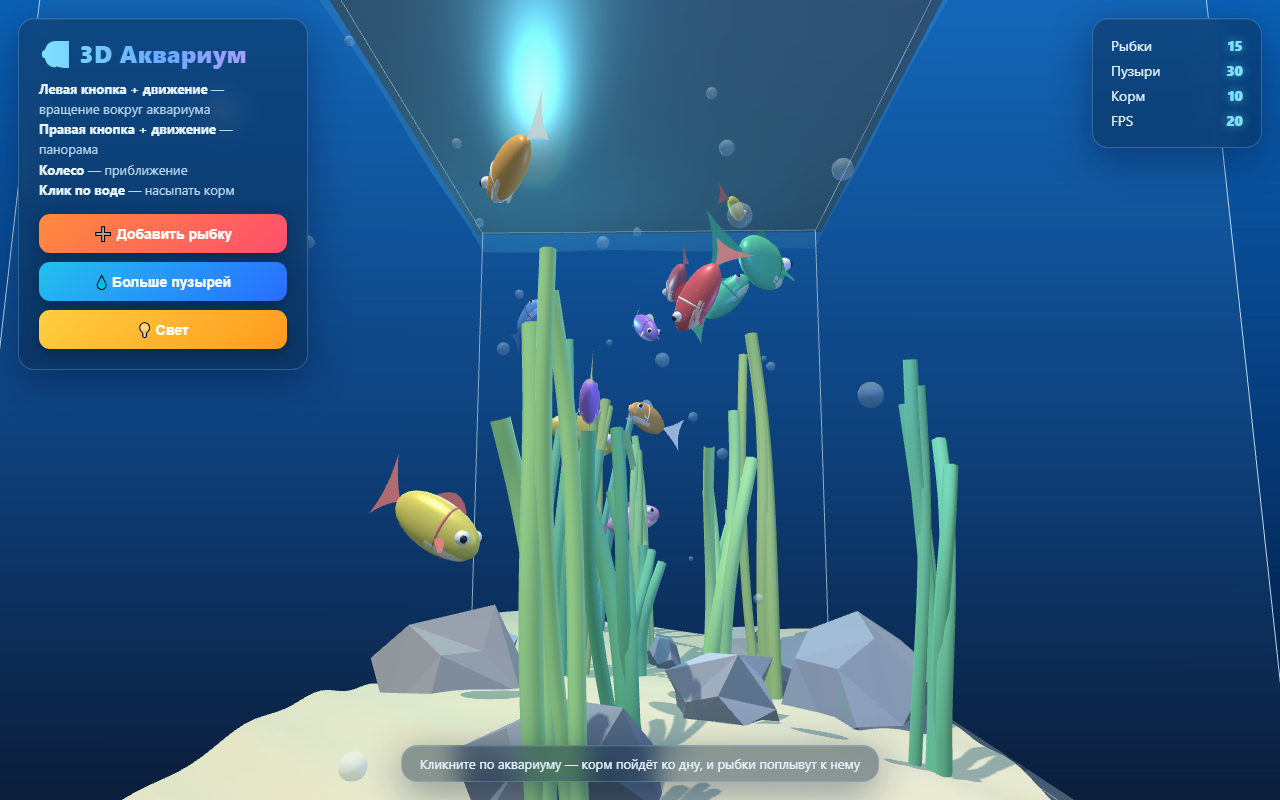
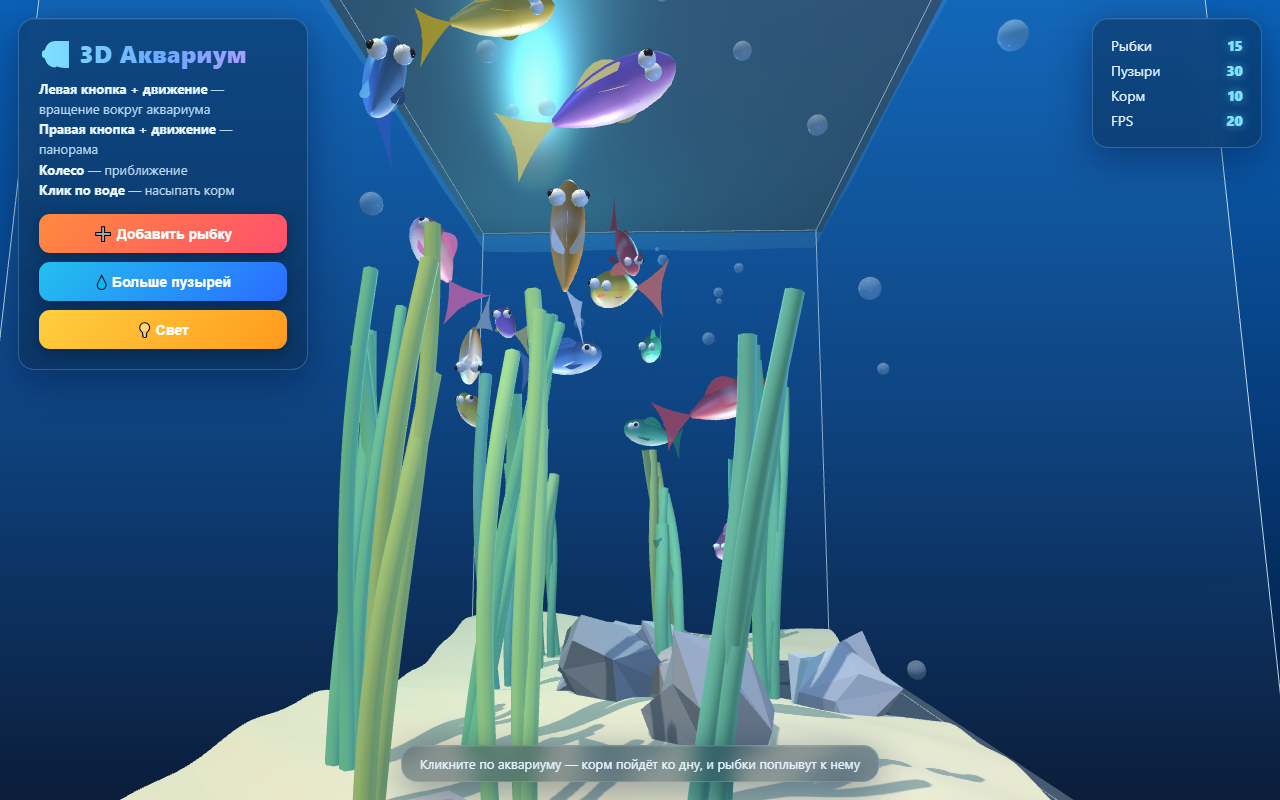
Свежие прогоны эталонов
Опубликовано сторожем: в галерее 73 групп, 2401 файлов.

diff --git a/docs/hamsters/aquarium.html b/docs/hamsters/aquarium.html
@@ -272,7 +272,7 @@ Call log:
 <tr class="run bad" data-mode="medium" data-ok="0"><td class="shot-cell"><a class="shot" href="%D0%90%D0%BA%D0%B2%D0%B0%D1%80%D0%B8%D1%83%D0%BC%20%C2%B7%20Qwen3.6%204%20%D0%B1%D0%B8%D1%82%D0%B0%20AWQ/medium-%D0%BF%D1%80%D0%BE%D0%B3%D0%BE%D0%BD1.html" target="_blank"><img src="%D0%90%D0%BA%D0%B2%D0%B0%D1%80%D0%B8%D1%83%D0%BC%20%C2%B7%20Qwen3.6%204%20%D0%B1%D0%B8%D1%82%D0%B0%20AWQ/medium-%D0%BF%D1%80%D0%BE%D0%B3%D0%BE%D0%BD1.png" loading="lazy" alt="снимок сцены"></a></td><td class="run-cell" data-h="прогон"><a class="play" href="%D0%90%D0%BA%D0%B2%D0%B0%D1%80%D0%B8%D1%83%D0%BC%20%C2%B7%20Qwen3.6%204%20%D0%B1%D0%B8%D1%82%D0%B0%20AWQ/medium-%D0%BF%D1%80%D0%BE%D0%B3%D0%BE%D0%BD1.html" target="_blank">▶ смотреть</a><b class="rlab">medium, прогон 1</b><span class="rmode">medium</span><span class="cdn">cdn.jsdelivr.net, cdnjs.cloudflare.com</span><div class="crash">страница падает<br><i>Cannot access &#x27;bubbleArray&#x27; before initialization</i></div></td><td class="chk" data-h="проверки"><b>23/25</b><span class="thr">порог 15</span><span class="miss">не хватило: 8 цветовых схем, рост после еды</span></td><td class="speed" data-h="скорость"><b>97,5&#8201;т/с</b><span>9 947 токенов<br>102 с</span></td><td class="fin" data-h="финиш">stop<span>размышление 1 036&#8201;симв</span></td><td class="lnk" data-h="файлы"><a href="%D0%90%D0%BA%D0%B2%D0%B0%D1%80%D0%B8%D1%83%D0%BC%20%C2%B7%20Qwen3.6%204%20%D0%B1%D0%B8%D1%82%D0%B0%20AWQ/medium-%D0%BF%D1%80%D0%BE%D0%B3%D0%BE%D0%BD1.html" target="_blank">исходник</a><a href="%D0%90%D0%BA%D0%B2%D0%B0%D1%80%D0%B8%D1%83%D0%BC%20%C2%B7%20Qwen3.6%204%20%D0%B1%D0%B8%D1%82%D0%B0%20AWQ/medium-%D0%BF%D1%80%D0%BE%D0%B3%D0%BE%D0%BD1-%D1%80%D0%B0%D0%B7%D0%BC%D1%8B%D1%88%D0%BB%D0%B5%D0%BD%D0%B8%D0%B5.txt" target="_blank">размышление</a><a href="%D0%90%D0%BA%D0%B2%D0%B0%D1%80%D0%B8%D1%83%D0%BC%20%C2%B7%20Qwen3.6%204%20%D0%B1%D0%B8%D1%82%D0%B0%20AWQ/medium-%D0%BF%D1%80%D0%BE%D0%B3%D0%BE%D0%BD1-%D0%BE%D1%82%D0%B2%D0%B5%D1%82-%D1%86%D0%B5%D0%BB%D0%B8%D0%BA%D0%BE%D0%BC.md" target="_blank">ответ целиком</a></td></tr>
 <tr class="run ok" data-mode="medium" data-ok="1"><td class="shot-cell"><a class="shot" href="%D0%90%D0%BA%D0%B2%D0%B0%D1%80%D0%B8%D1%83%D0%BC%20%C2%B7%20Qwen3.6%204%20%D0%B1%D0%B8%D1%82%D0%B0%20AWQ/medium-%D0%BF%D1%80%D0%BE%D0%B3%D0%BE%D0%BD2.html" target="_blank"><img src="%D0%90%D0%BA%D0%B2%D0%B0%D1%80%D0%B8%D1%83%D0%BC%20%C2%B7%20Qwen3.6%204%20%D0%B1%D0%B8%D1%82%D0%B0%20AWQ/medium-%D0%BF%D1%80%D0%BE%D0%B3%D0%BE%D0%BD2.png" loading="lazy" alt="снимок сцены"></a></td><td class="run-cell" data-h="прогон"><a class="play" href="%D0%90%D0%BA%D0%B2%D0%B0%D1%80%D0%B8%D1%83%D0%BC%20%C2%B7%20Qwen3.6%204%20%D0%B1%D0%B8%D1%82%D0%B0%20AWQ/medium-%D0%BF%D1%80%D0%BE%D0%B3%D0%BE%D0%BD2.html" target="_blank">▶ смотреть</a><b class="rlab">medium, прогон 2</b><span class="rmode">medium</span><span class="cdn">cdn.jsdelivr.net, cdnjs.cloudflare.com</span></td><td class="chk" data-h="проверки"><b>24/25</b><span class="thr">порог 15</span><span class="miss">не хватило: 8 цветовых схем</span></td><td class="speed" data-h="скорость"><b>97,7&#8201;т/с</b><span>9 703 токенов<br>99 с</span></td><td class="fin" data-h="финиш">stop<span>размышление 700&#8201;симв</span></td><td class="lnk" data-h="файлы"><a href="%D0%90%D0%BA%D0%B2%D0%B0%D1%80%D0%B8%D1%83%D0%BC%20%C2%B7%20Qwen3.6%204%20%D0%B1%D0%B8%D1%82%D0%B0%20AWQ/medium-%D0%BF%D1%80%D0%BE%D0%B3%D0%BE%D0%BD2.html" target="_blank">исходник</a><a href="%D0%90%D0%BA%D0%B2%D0%B0%D1%80%D0%B8%D1%83%D0%BC%20%C2%B7%20Qwen3.6%204%20%D0%B1%D0%B8%D1%82%D0%B0%20AWQ/medium-%D0%BF%D1%80%D0%BE%D0%B3%D0%BE%D0%BD2-%D1%80%D0%B0%D0%B7%D0%BC%D1%8B%D1%88%D0%BB%D0%B5%D0%BD%D0%B8%D0%B5.txt" target="_blank">размышление</a><a href="%D0%90%D0%BA%D0%B2%D0%B0%D1%80%D0%B8%D1%83%D0%BC%20%C2%B7%20Qwen3.6%204%20%D0%B1%D0%B8%D1%82%D0%B0%20AWQ/medium-%D0%BF%D1%80%D0%BE%D0%B3%D0%BE%D0%BD2-%D0%BE%D1%82%D0%B2%D0%B5%D1%82-%D1%86%D0%B5%D0%BB%D0%B8%D0%BA%D0%BE%D0%BC.md" target="_blank">ответ целиком</a></td></tr>
 <tr class="run ok" data-mode="xhigh" data-ok="1"><td class="shot-cell"><a class="shot" href="%D0%90%D0%BA%D0%B2%D0%B0%D1%80%D0%B8%D1%83%D0%BC%20%C2%B7%20Qwen3.6%204%20%D0%B1%D0%B8%D1%82%D0%B0%20AWQ/xhigh-%D0%BF%D1%80%D0%BE%D0%B3%D0%BE%D0%BD1.html" target="_blank"><img src="%D0%90%D0%BA%D0%B2%D0%B0%D1%80%D0%B8%D1%83%D0%BC%20%C2%B7%20Qwen3.6%204%20%D0%B1%D0%B8%D1%82%D0%B0%20AWQ/xhigh-%D0%BF%D1%80%D0%BE%D0%B3%D0%BE%D0%BD1.png" loading="lazy" alt="снимок сцены"></a></td><td class="run-cell" data-h="прогон"><a class="play" href="%D0%90%D0%BA%D0%B2%D0%B0%D1%80%D0%B8%D1%83%D0%BC%20%C2%B7%20Qwen3.6%204%20%D0%B1%D0%B8%D1%82%D0%B0%20AWQ/xhigh-%D0%BF%D1%80%D0%BE%D0%B3%D0%BE%D0%BD1.html" target="_blank">▶ смотреть</a><b class="rlab">xhigh, прогон 1</b><span class="rmode">xhigh</span><span class="cdn">cdn.jsdelivr.net, cdnjs.cloudflare.com</span></td><td class="chk" data-h="проверки"><b>24/25</b><span class="thr">порог 15</span><span class="miss">не хватило: 8 цветовых схем</span></td><td class="speed" data-h="скорость"><b>97,5&#8201;т/с</b><span>10 778 токенов<br>111 с</span></td><td class="fin" data-h="финиш">stop<span>размышление 1 047&#8201;симв</span></td><td class="lnk" data-h="файлы"><a href="%D0%90%D0%BA%D0%B2%D0%B0%D1%80%D0%B8%D1%83%D0%BC%20%C2%B7%20Qwen3.6%204%20%D0%B1%D0%B8%D1%82%D0%B0%20AWQ/xhigh-%D0%BF%D1%80%D0%BE%D0%B3%D0%BE%D0%BD1.html" target="_blank">исходник</a><a href="%D0%90%D0%BA%D0%B2%D0%B0%D1%80%D0%B8%D1%83%D0%BC%20%C2%B7%20Qwen3.6%204%20%D0%B1%D0%B8%D1%82%D0%B0%20AWQ/xhigh-%D0%BF%D1%80%D0%BE%D0%B3%D0%BE%D0%BD1-%D1%80%D0%B0%D0%B7%D0%BC%D1%8B%D1%88%D0%BB%D0%B5%D0%BD%D0%B8%D0%B5.txt" target="_blank">размышление</a><a href="%D0%90%D0%BA%D0%B2%D0%B0%D1%80%D0%B8%D1%83%D0%BC%20%C2%B7%20Qwen3.6%204%20%D0%B1%D0%B8%D1%82%D0%B0%20AWQ/xhigh-%D0%BF%D1%80%D0%BE%D0%B3%D0%BE%D0%BD1-%D0%BE%D1%82%D0%B2%D0%B5%D1%82-%D1%86%D0%B5%D0%BB%D0%B8%D0%BA%D0%BE%D0%BC.md" target="_blank">ответ целиком</a></td></tr></tbody></table></div></section>
-<section class="mdl" data-fam="claude (эталон)" data-bits="" data-way="" data-name="эталон claude claude opus 5.5 (эталон, написано напрямую) без кванта, эталон" data-share="1.0000" data-tps="0.00" data-ord="17"><header class="mh"><div class="mh-l"><h2>Эталон Claude</h2><span class="ckpt">Claude Opus 5.5 (эталон, написано напрямую)</span><span class="det">без кванта, эталон · верхняя планка для сравнения: тот же промпт, те же проверки</span></div><div class="mh-r"><div class="bar"><i style="width:100%"></i></div><div class="cnt">прогонов <b class="vis">1</b> из 1 · засчитано <b>1</b></div></div></header><div class="scroll"><table><thead><tr><th>вид</th><th>прогон</th><th>проверки</th><th>скорость</th><th>финиш</th><th>файлы</th></tr></thead><tbody><tr class="run ok" data-mode="эталон" data-ok="1"><td class="shot-cell"><a class="shot" href="%D0%90%D0%BA%D0%B2%D0%B0%D1%80%D0%B8%D1%83%D0%BC%20%C2%B7%20%D0%AD%D1%82%D0%B0%D0%BB%D0%BE%D0%BD%20Claude/etalon-%D0%BF%D1%80%D0%BE%D0%B3%D0%BE%D0%BD1.html" target="_blank"><img src="%D0%90%D0%BA%D0%B2%D0%B0%D1%80%D0%B8%D1%83%D0%BC%20%C2%B7%20%D0%AD%D1%82%D0%B0%D0%BB%D0%BE%D0%BD%20Claude/etalon-%D0%BF%D1%80%D0%BE%D0%B3%D0%BE%D0%BD1.png" loading="lazy" alt="снимок сцены"></a></td><td class="run-cell" data-h="прогон"><a class="play" href="%D0%90%D0%BA%D0%B2%D0%B0%D1%80%D0%B8%D1%83%D0%BC%20%C2%B7%20%D0%AD%D1%82%D0%B0%D0%BB%D0%BE%D0%BD%20Claude/etalon-%D0%BF%D1%80%D0%BE%D0%B3%D0%BE%D0%BD1.html" target="_blank">▶ смотреть</a><b class="rlab">эталон</b><span class="rmode">эталон</span><span class="cdn">cdn.jsdelivr.net, cdnjs.cloudflare.com</span></td><td class="chk" data-h="проверки"><b>25/25</b><span class="thr">порог 15</span></td><td class="speed" data-h="скорость"><b>0,0&#8201;т/с</b><span>0 токенов<br>0 с</span></td><td class="fin" data-h="финиш">stop</td><td class="lnk" data-h="файлы"><a href="%D0%90%D0%BA%D0%B2%D0%B0%D1%80%D0%B8%D1%83%D0%BC%20%C2%B7%20%D0%AD%D1%82%D0%B0%D0%BB%D0%BE%D0%BD%20Claude/etalon-%D0%BF%D1%80%D0%BE%D0%B3%D0%BE%D0%BD1.html" target="_blank">исходник</a><a href="%D0%90%D0%BA%D0%B2%D0%B0%D1%80%D0%B8%D1%83%D0%BC%20%C2%B7%20%D0%AD%D1%82%D0%B0%D0%BB%D0%BE%D0%BD%20Claude/etalon-%D0%BF%D1%80%D0%BE%D0%B3%D0%BE%D0%BD1-%D0%BE%D1%82%D0%B2%D0%B5%D1%82-%D1%86%D0%B5%D0%BB%D0%B8%D0%BA%D0%BE%D0%BC.md" target="_blank">ответ целиком</a></td></tr></tbody></table></div></section></div>
+<section class="mdl" data-fam="claude (эталон)" data-bits="" data-way="" data-name="эталон claude claude opus 5.5 (эталон, написано напрямую) без кванта, эталон" data-share="1.0000" data-tps="0.00" data-ord="17"><header class="mh"><div class="mh-l"><h2>Эталон Claude</h2><span class="ckpt">Claude Opus 5.5 (эталон, написано напрямую)</span><span class="det">без кванта, эталон · верхняя планка для сравнения: тот же промпт, те же проверки; 27.09 вечером исправлено: рыбы плыли хвостом вперёд, тело переделано</span></div><div class="mh-r"><div class="bar"><i style="width:100%"></i></div><div class="cnt">прогонов <b class="vis">1</b> из 1 · засчитано <b>1</b></div></div></header><div class="scroll"><table><thead><tr><th>вид</th><th>прогон</th><th>проверки</th><th>скорость</th><th>финиш</th><th>файлы</th></tr></thead><tbody><tr class="run ok" data-mode="эталон" data-ok="1"><td class="shot-cell"><a class="shot" href="%D0%90%D0%BA%D0%B2%D0%B0%D1%80%D0%B8%D1%83%D0%BC%20%C2%B7%20%D0%AD%D1%82%D0%B0%D0%BB%D0%BE%D0%BD%20Claude/etalon-%D0%BF%D1%80%D0%BE%D0%B3%D0%BE%D0%BD1.html" target="_blank"><img src="%D0%90%D0%BA%D0%B2%D0%B0%D1%80%D0%B8%D1%83%D0%BC%20%C2%B7%20%D0%AD%D1%82%D0%B0%D0%BB%D0%BE%D0%BD%20Claude/etalon-%D0%BF%D1%80%D0%BE%D0%B3%D0%BE%D0%BD1.png" loading="lazy" alt="снимок сцены"></a></td><td class="run-cell" data-h="прогон"><a class="play" href="%D0%90%D0%BA%D0%B2%D0%B0%D1%80%D0%B8%D1%83%D0%BC%20%C2%B7%20%D0%AD%D1%82%D0%B0%D0%BB%D0%BE%D0%BD%20Claude/etalon-%D0%BF%D1%80%D0%BE%D0%B3%D0%BE%D0%BD1.html" target="_blank">▶ смотреть</a><b class="rlab">эталон</b><span class="rmode">эталон</span><span class="cdn">cdn.jsdelivr.net, cdnjs.cloudflare.com</span></td><td class="chk" data-h="проверки"><b>25/25</b><span class="thr">порог 15</span></td><td class="speed" data-h="скорость"><b>0,0&#8201;т/с</b><span>0 токенов<br>0 с</span></td><td class="fin" data-h="финиш">stop</td><td class="lnk" data-h="файлы"><a href="%D0%90%D0%BA%D0%B2%D0%B0%D1%80%D0%B8%D1%83%D0%BC%20%C2%B7%20%D0%AD%D1%82%D0%B0%D0%BB%D0%BE%D0%BD%20Claude/etalon-%D0%BF%D1%80%D0%BE%D0%B3%D0%BE%D0%BD1.html" target="_blank">исходник</a><a href="%D0%90%D0%BA%D0%B2%D0%B0%D1%80%D0%B8%D1%83%D0%BC%20%C2%B7%20%D0%AD%D1%82%D0%B0%D0%BB%D0%BE%D0%BD%20Claude/etalon-%D0%BF%D1%80%D0%BE%D0%B3%D0%BE%D0%BD1-%D0%BE%D1%82%D0%B2%D0%B5%D1%82-%D1%86%D0%B5%D0%BB%D0%B8%D0%BA%D0%BE%D0%BC.md" target="_blank">ответ целиком</a></td></tr></tbody></table></div></section></div>
 <footer>Зелёная строка — прогон засчитан, красная — нет. Полоса в шапке блока показывает долю засчитанных у этой модели. Под каждым прогоном написано, с какого хоста он тянет three.js: если этот хост у вас недоступен, сцена покажет ожидание CDN вместо картинки.</footer>
 </div><script>
 (function () {

diff --git a/docs/hamsters/Аквариум · Эталон Claude/etalon-прогон1.html b/docs/hamsters/Аквариум · Эталон Claude/etalon-прогон1.html
@@ -314,7 +314,33 @@ for (let i = 0; i < BUBBLE_COUNT; i++) spawnBubble(true);
 
 // ─────────────────────────── рыбки ───────────────────────────
 const fishArray = [];
-const bodyGeo = new THREE.SphereGeometry(1, 16, 12);
+// Тело — поверхность вращения по профилю рыбы: круглая голова, самая толстая часть в передней трети, сужение к
+// хвостовому стеблю. Ось вращения повёрнута на +X (голова), с боков тело сжато. Брюхо, спина и полоса — цвета вершин
+// этого же тела, а не отдельные сферы, торчащие из него.
+const FISH_PROFILE = [[0, 1.55], [0.22, 1.47], [0.42, 1.28], [0.58, 0.95], [0.66, 0.55], [0.67, 0.15], [0.62, -0.25],
+                      [0.5, -0.65], [0.34, -1.0], [0.2, -1.25], [0.12, -1.42], [0, -1.46]];
+const bodyGeoCache = new Map();
+function fishBodyGeo(scheme) {
+  if (bodyGeoCache.has(scheme)) return bodyGeoCache.get(scheme);
+  const g = new THREE.LatheGeometry(FISH_PROFILE.map(([r, y]) => new THREE.Vector2(r, y)), 28);
+  g.rotateZ(-Math.PI / 2);                        // ось вращения +Y → +X: голова смотрит вдоль +X
+  g.scale(1, 1, 0.6);                             // рыбы сжаты с боков
+  const pos = g.attributes.position, col = [];
+  const cBody = new THREE.Color(scheme.body), cBelly = new THREE.Color(scheme.belly), cStripe = new THREE.Color(scheme.stripe);
+  const cBack = cBody.clone().multiplyScalar(0.72), c = new THREE.Color();
+  const smooth = (a, b, x) => { const t = THREE.MathUtils.clamp((x - a) / (b - a), 0, 1); return t * t * (3 - 2 * t); };
+  for (let i = 0; i < pos.count; i++) {
+    const x = pos.getX(i), y = pos.getY(i);
+    c.copy(cBody).lerp(cBack, smooth(0.15, 0.6, y)).lerp(cBelly, smooth(-0.05, -0.5, y));
+    const band = smooth(0.12, 0.2, x) * (1 - smooth(0.4, 0.48, x));   // мягкая поперечная полоса
+    c.lerp(cStripe, band * 0.9);
+    col.push(c.r, c.g, c.b);
+  }
+  g.setAttribute('color', new THREE.Float32BufferAttribute(col, 3));
+  g.computeVertexNormals();
+  bodyGeoCache.set(scheme, g);
+  return g;
+}
 const eyeGeo = new THREE.SphereGeometry(0.2, 10, 8);
 const pupilGeo = new THREE.SphereGeometry(0.11, 8, 6);
 const eyeMat = new THREE.MeshStandardMaterial({ color: 0xffffff, roughness: 0.2 });
@@ -343,30 +369,19 @@ const sideFinGeo = finShape(0.75, 0.42);
 
 function createFish(position) {
   const scheme = COLOR_SCHEMES[fishArray.length % COLOR_SCHEMES.length];
-  const bodyMat = new THREE.MeshStandardMaterial({ color: scheme.body, roughness: 0.35, metalness: 0.15 });
+  const bodyMat = new THREE.MeshStandardMaterial({ vertexColors: true, roughness: 0.38, metalness: 0.12 });
   const finMat = new THREE.MeshStandardMaterial({ color: scheme.fin, roughness: 0.5, side: THREE.DoubleSide, transparent: true, opacity: 0.88 });
 
   const mesh = new THREE.Group();                 // рыбка смотрит вдоль +X
-  const body = new THREE.Mesh(bodyGeo, bodyMat);
-  body.scale.set(1.45, 0.72, 0.46);               // вытянутое тело — масштабированная сфера
+  const body = new THREE.Mesh(fishBodyGeo(scheme), bodyMat);
   body.castShadow = true;
   mesh.add(body);
 
-  const belly = new THREE.Mesh(bodyGeo, new THREE.MeshStandardMaterial({ color: scheme.belly, roughness: 0.5 }));
-  belly.scale.set(1.18, 0.42, 0.4);
-  belly.position.set(0.1, -0.26, 0);
-  mesh.add(belly);
-
-  const stripe = new THREE.Mesh(bodyGeo, new THREE.MeshStandardMaterial({ color: scheme.stripe, roughness: 0.4 }));
-  stripe.scale.set(0.12, 0.7, 0.47);             // поперечная полоса
-  stripe.position.set(0.35, 0.02, 0);
-  mesh.add(stripe);
-
-  for (const side of [1, -1]) {                   // глаза со зрачками
+  for (const side of [1, -1]) {                   // глаза со зрачками, сидят на поверхности головы
     const eye = new THREE.Mesh(eyeGeo, eyeMat);
-    eye.position.set(1.02, 0.18, 0.31 * side);
+    eye.position.set(1.02, 0.2, 0.26 * side);
     const pupil = new THREE.Mesh(pupilGeo, pupilMat);
-    pupil.position.set(0.1, 0.02, 0.1 * side);
+    pupil.position.set(0.07, 0.02, 0.12 * side);
     eye.add(pupil);
     mesh.add(eye);
   }
@@ -374,7 +389,7 @@ function createFish(position) {
   // хвост: шарнир развёрнут на 90° по X, поэтому вращение хвоста по его оси Z
   // даёт взмах из стороны в сторону, как у настоящей рыбы
   const tailPivot = new THREE.Group();
-  tailPivot.position.set(-1.35, 0, 0);
+  tailPivot.position.set(-1.38, 0, 0);
   tailPivot.rotation.x = Math.PI / 2;
   const tail = new THREE.Mesh(tailGeo, finMat);
   tail.rotation.x = -Math.PI / 2;
@@ -383,17 +398,22 @@ function createFish(position) {
   tailPivot.add(tailHinge);
   mesh.add(tailPivot);
 
-  const dorsal = new THREE.Mesh(dorsalGeo, finMat);   // верхний плавник
-  dorsal.position.set(-0.55, 0.55, 0);
+  const dorsal = new THREE.Mesh(dorsalGeo, finMat);   // верхний плавник: от середины спины к хвосту
+  dorsal.position.set(-0.75, 0.47, 0);
   mesh.add(dorsal);
 
-  const leftFin = new THREE.Mesh(sideFinGeo, finMat);  // боковые плавники
-  leftFin.position.set(0.25, -0.2, 0.36);
-  leftFin.rotation.set(-0.5, 0, -0.5);
+  // грудные плавники за жабрами: лопасть смотрит назад (Z на π) и вниз-наружу (наклон по X); взмах — поворотом шарнира
+  const leftFin = new THREE.Group();
+  leftFin.position.set(0.5, -0.22, 0.34);
+  const leftBlade = new THREE.Mesh(sideFinGeo, finMat);
+  leftBlade.rotation.set(-0.9, 0, Math.PI);
+  leftFin.add(leftBlade);
   mesh.add(leftFin);
-  const rightFin = new THREE.Mesh(sideFinGeo, finMat);
-  rightFin.position.set(0.25, -0.2, -0.36);
-  rightFin.rotation.set(0.5, 0, -0.5);
+  const rightFin = new THREE.Group();
+  rightFin.position.set(0.5, -0.22, -0.34);
+  const rightBlade = new THREE.Mesh(sideFinGeo, finMat);
+  rightBlade.rotation.set(0.9, 0, Math.PI);
+  rightFin.add(rightBlade);
   mesh.add(rightFin);
 
   const scale = 0.6 + Math.random() * 0.6;        // размер 0.6 … 1.2
@@ -549,9 +569,11 @@ function updateFish(fish, dt, time) {
   // поворот в направлении движения (плавно)
   tmpA.copy(fish.velocity).normalize();
   if (tmpA.lengthSq() > 0) {
+    // Matrix4.lookAt строит базис камеры: её ось +Z смотрит ОТ цели, вперёд — это −Z. Голова модели на +X, поэтому
+    // доворот +90° вокруг Y переводит +X в −Z, то есть голову — по скорости. (С −90° рыбы плыли хвостом вперёд.)
     lookM.lookAt(new THREE.Vector3(), tmpA, UP);
     qTarget.setFromRotationMatrix(lookM);
-    qTarget.multiply(new THREE.Quaternion().setFromAxisAngle(UP, -Math.PI / 2));   // модель смотрит вдоль +X
+    qTarget.multiply(new THREE.Quaternion().setFromAxisAngle(UP, Math.PI / 2));
     fish.mesh.quaternion.slerp(qTarget, Math.min(1, dt * 3.5));
   }
 
